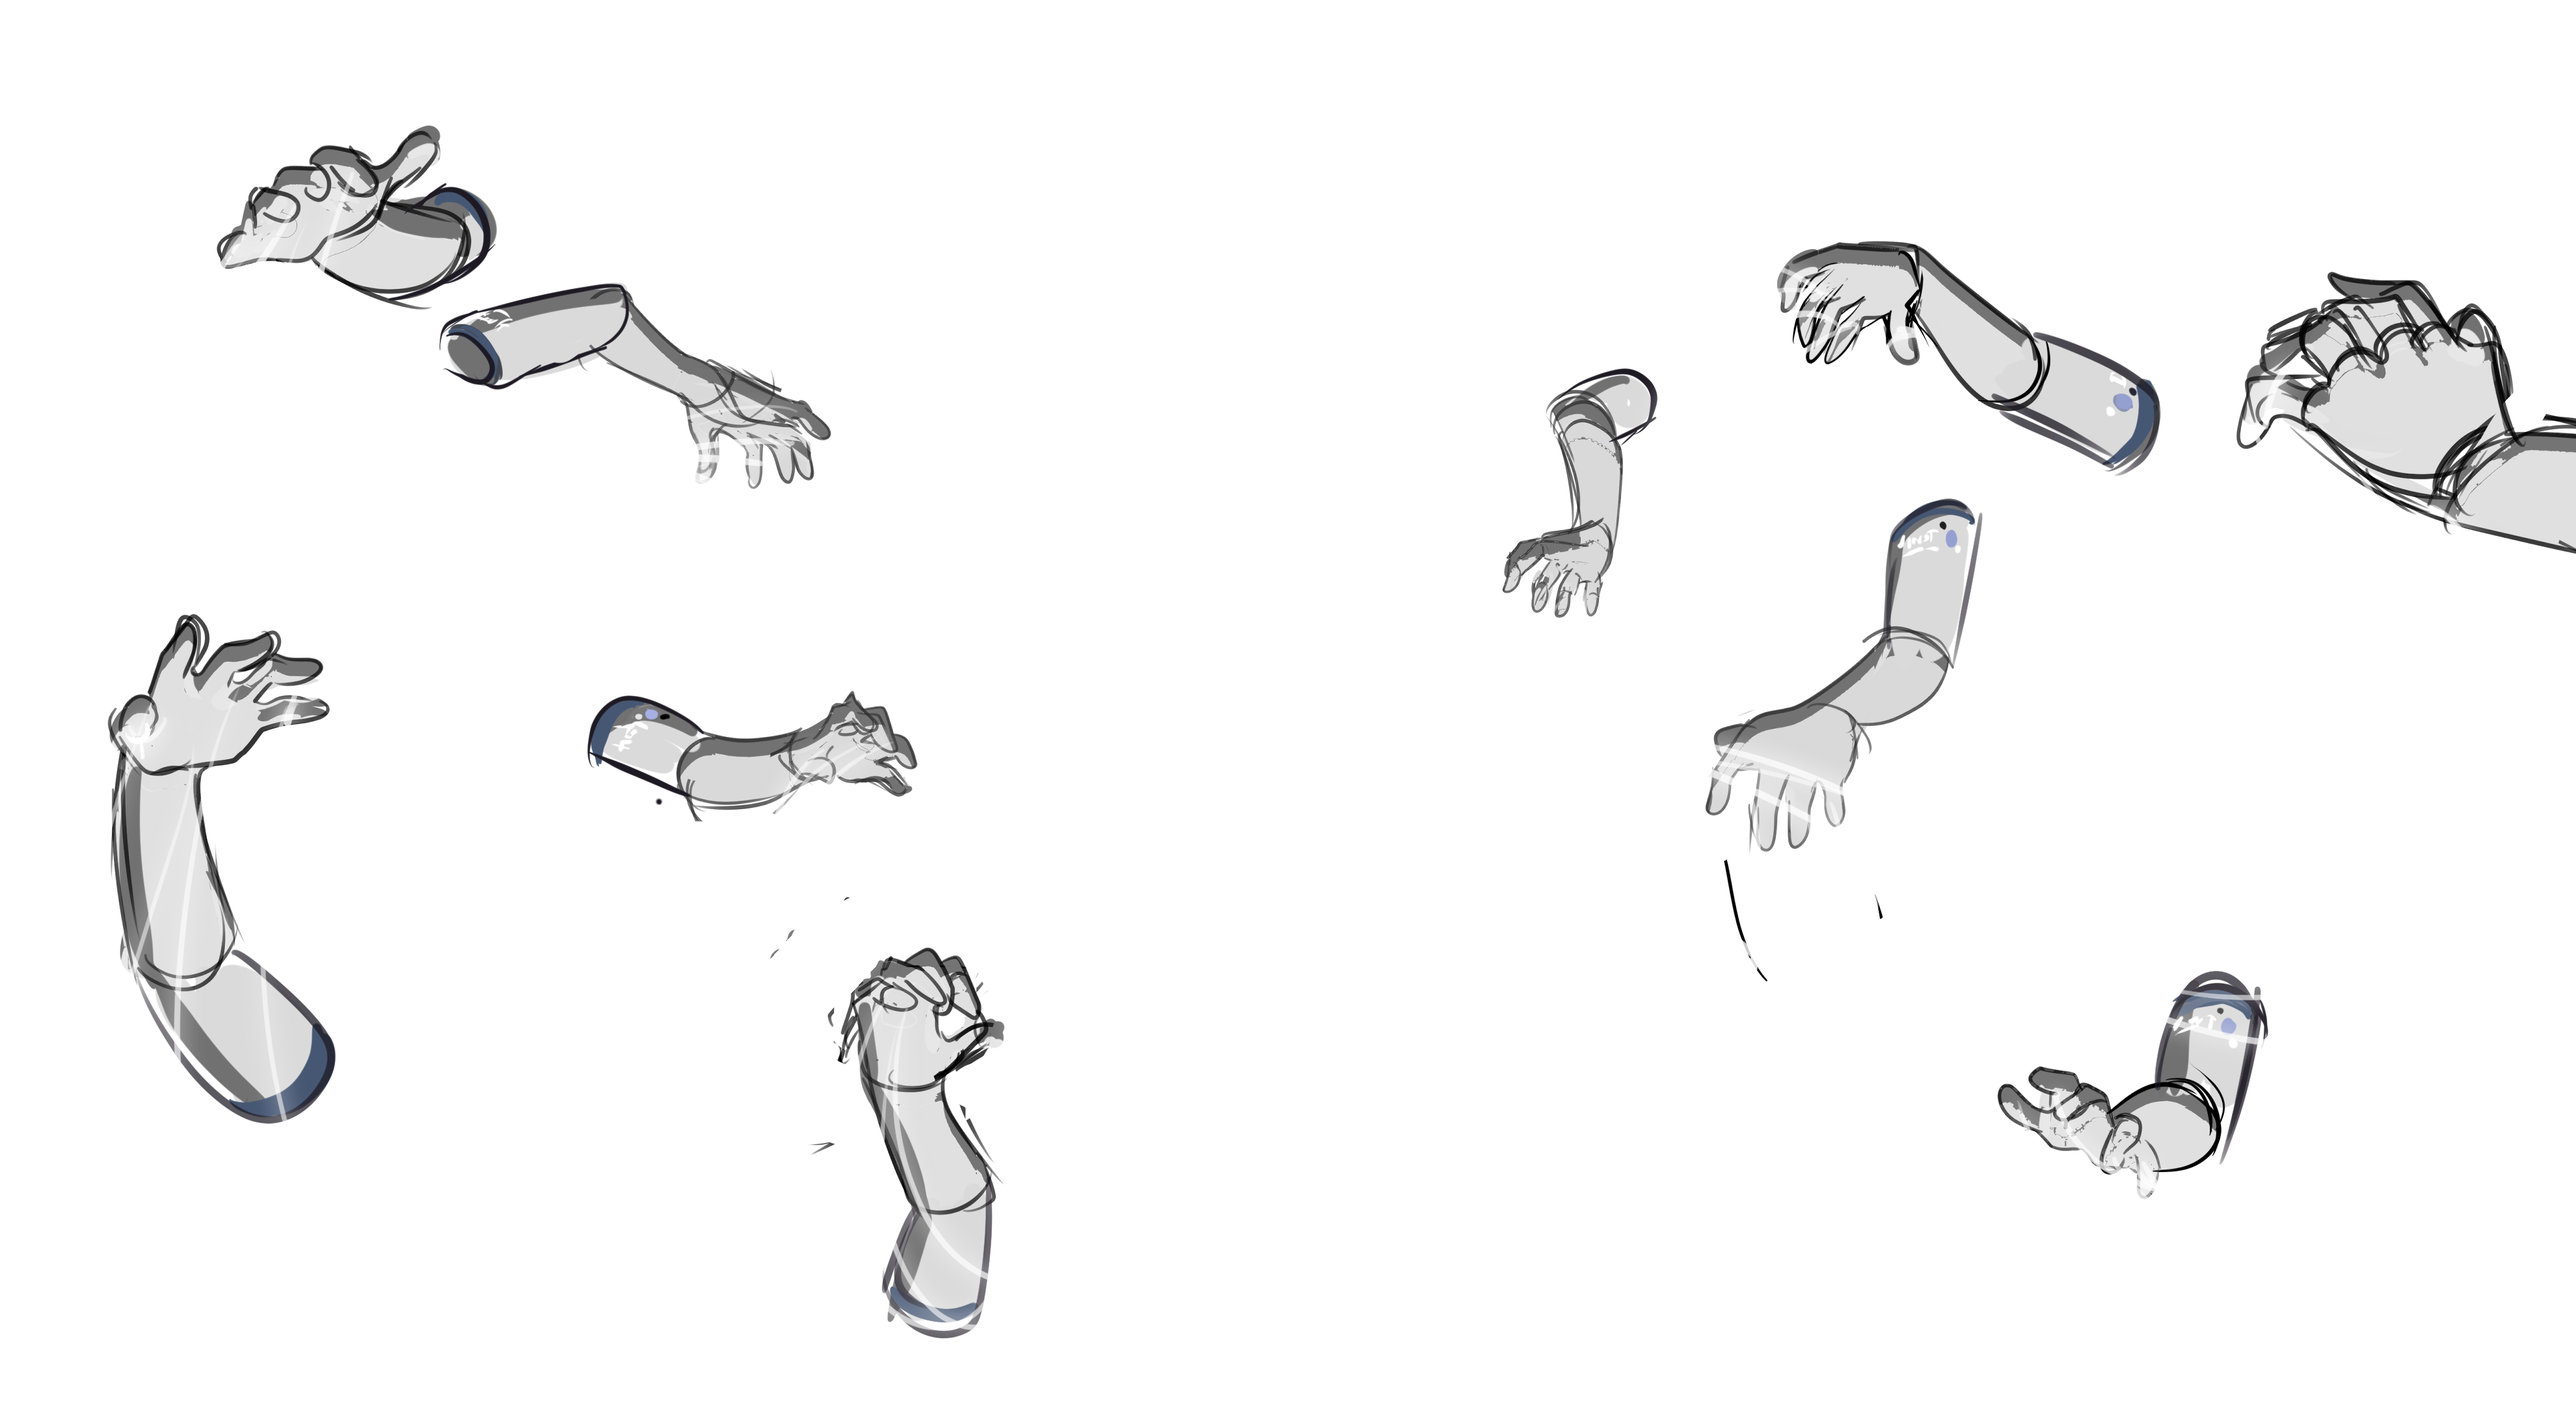
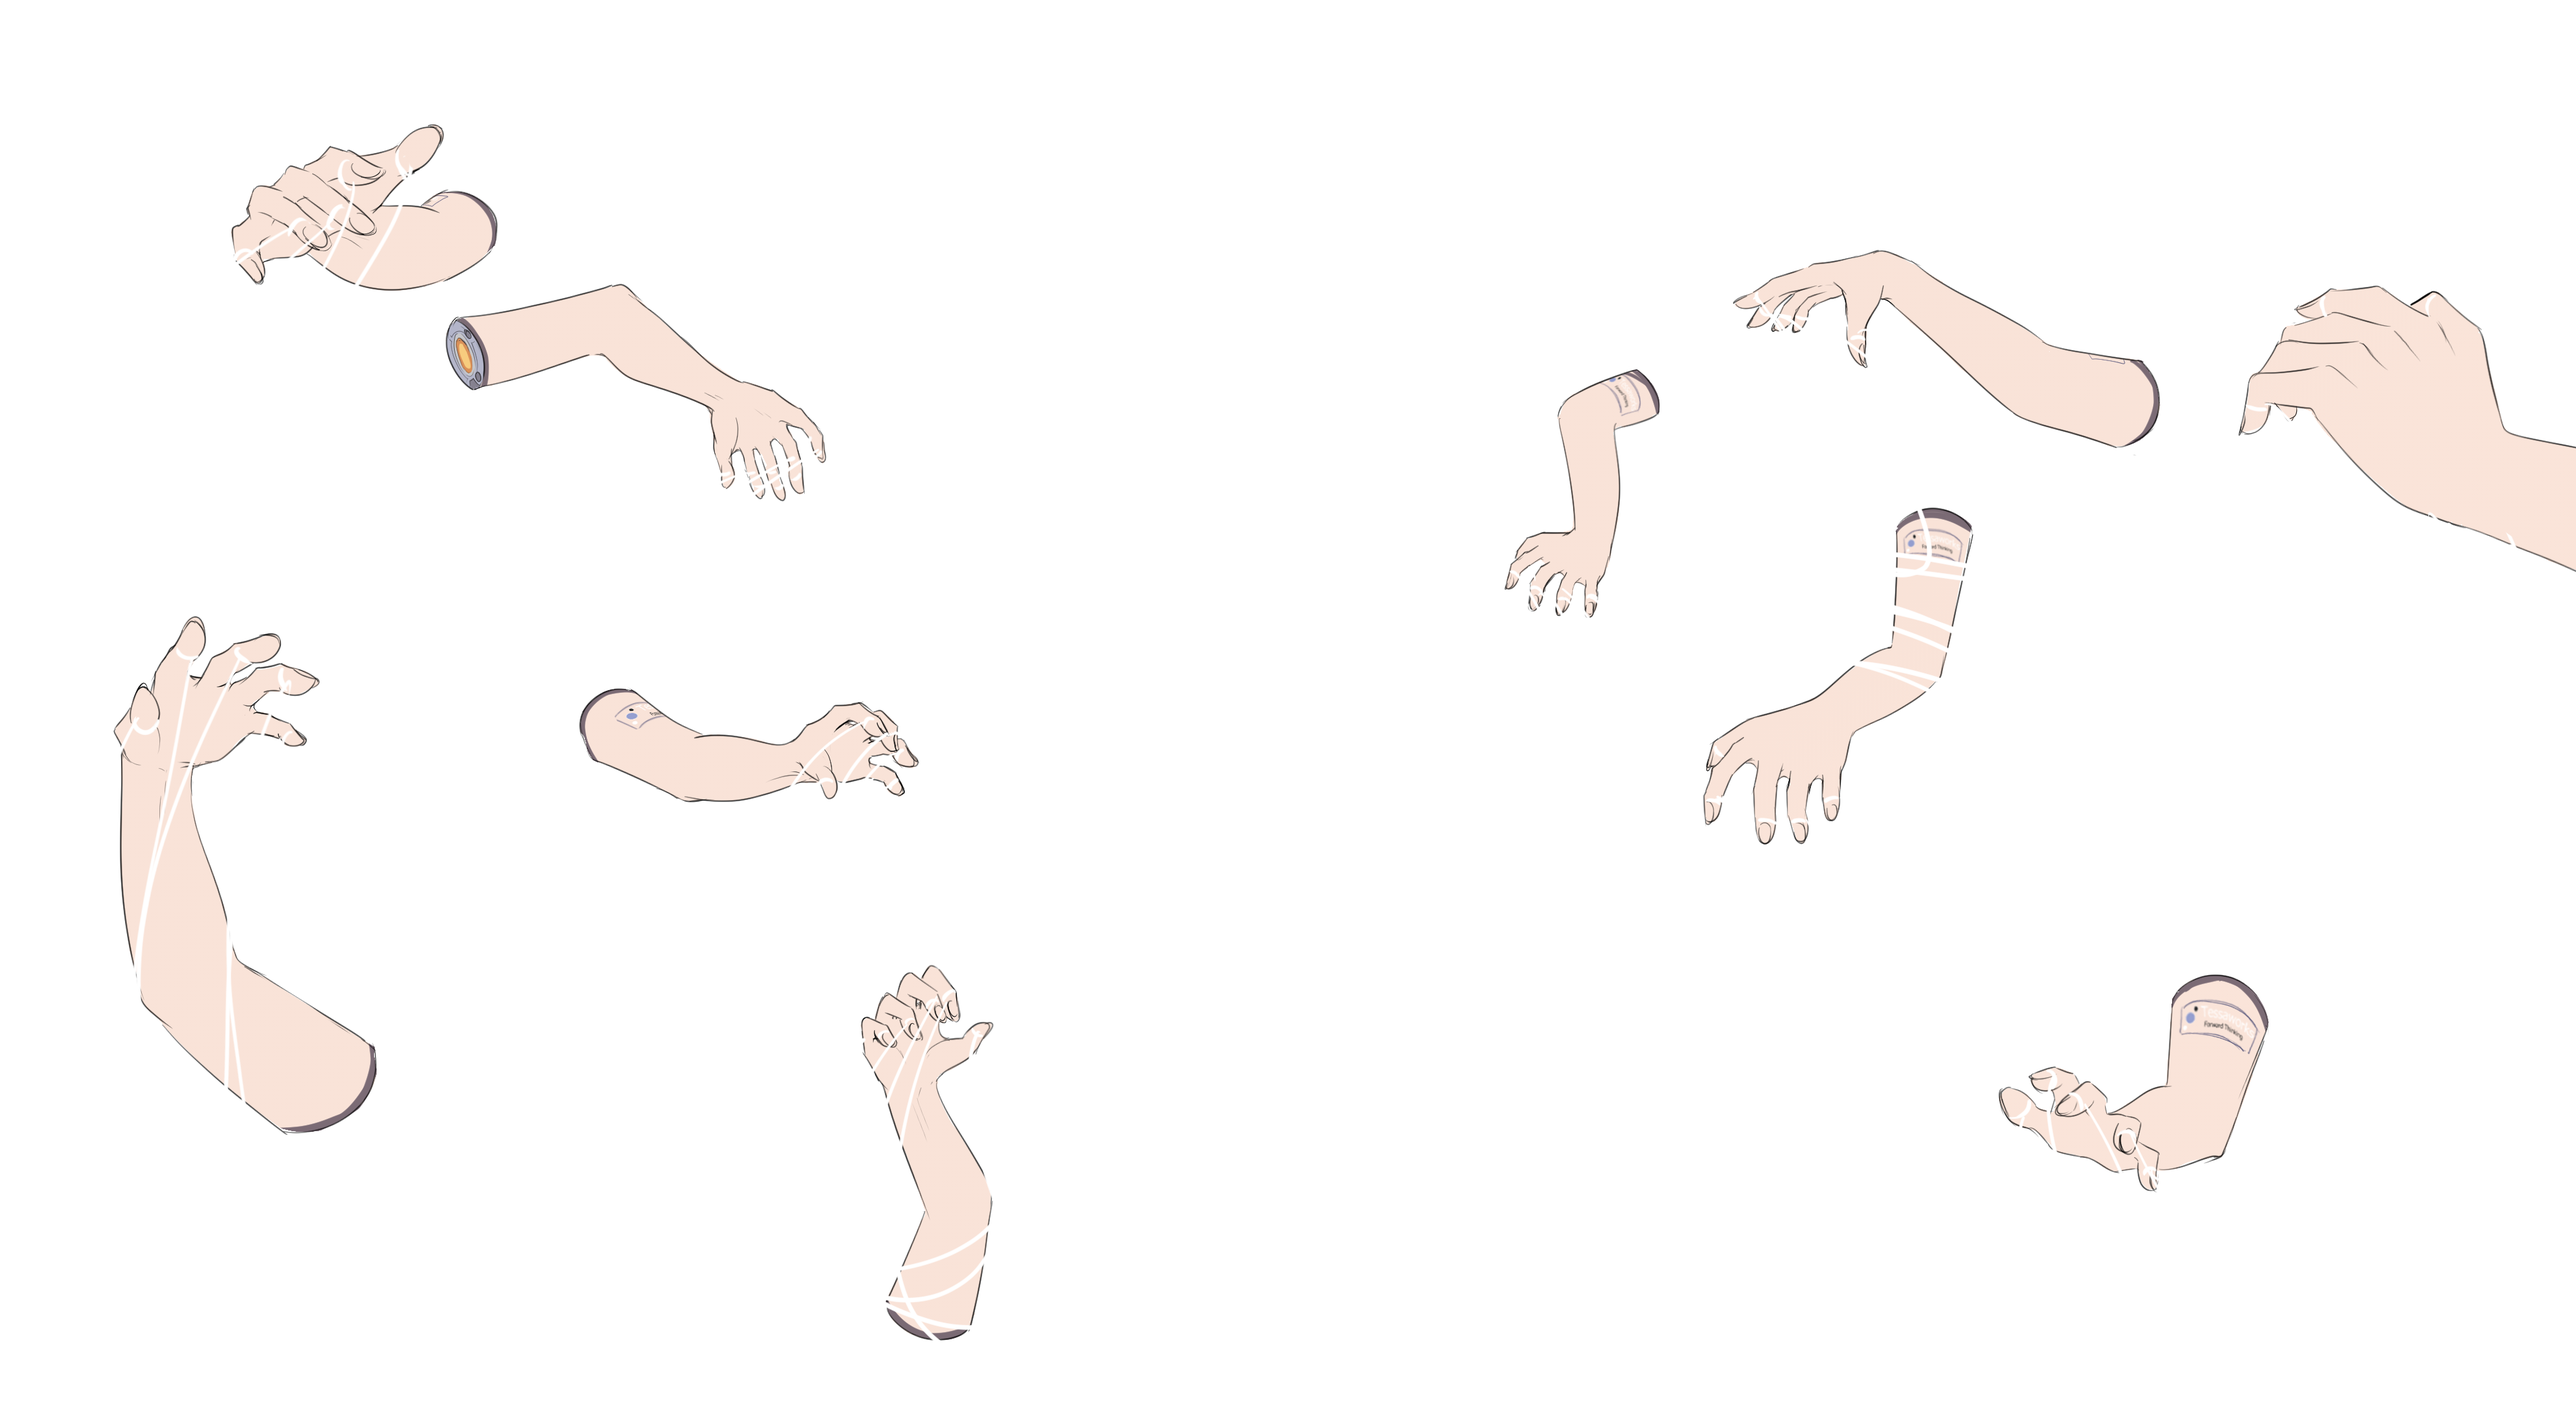
feat(parallax): move from sketch to basecolors

diff --git a/src/components/Parallax.vue b/src/components/Parallax.vue
@@ -20,7 +20,7 @@
           <img class="absolute animate-spin-reverse" :src="blackHoleOtherCores" style="transform-origin: 49% 47%" />
         </div>
 
-        <div :style="layer3">
+        <div :style="layer1">
           <img class="absolute animate-hover" :src="bigArmsFront" />
         </div>
 
@@ -33,6 +33,10 @@
 
         <div :style="layer5">
           <img class="absolute animate-hover-slow" :src="smallArms" />
+        </div>
+
+        <div class="absolute bottom-10 right-0">
+          <img class="w-1/2 h-1/2" :src="signature" />
         </div>
       </div>
     </div>
@@ -53,6 +57,7 @@ import bigArmsFront from "@/assets/tessa-parallax/big-arms-front.png";
 import tessa from "@/assets/tessa-parallax/tessa-noglow.png"
 import tessaGlow from "@/assets/tessa-parallax/tessa-glow.png"
 import smallArms from "@/assets/tessa-parallax/small-arms.png"
+import signature from "@/assets/tessa-parallax/signature.png"
 
 const target = useTemplateRef('target');
 const parallax = reactive(useParallax(target));
@@ -80,7 +85,7 @@ const layer1 = computed(() => ({
 
 const layer2 = computed<CSSProperties>(() => ({
   ...layerBase,
-  top: `-${target.value?.clientHeight || 0 / 1.7}px`,
+  top: `-${target.value?.clientHeight / 1.6}px`,
   transform: `translate3d(${parallax.tilt * 30}px, ${parallax.roll * 30}px, 0px)`,
 }));
 
